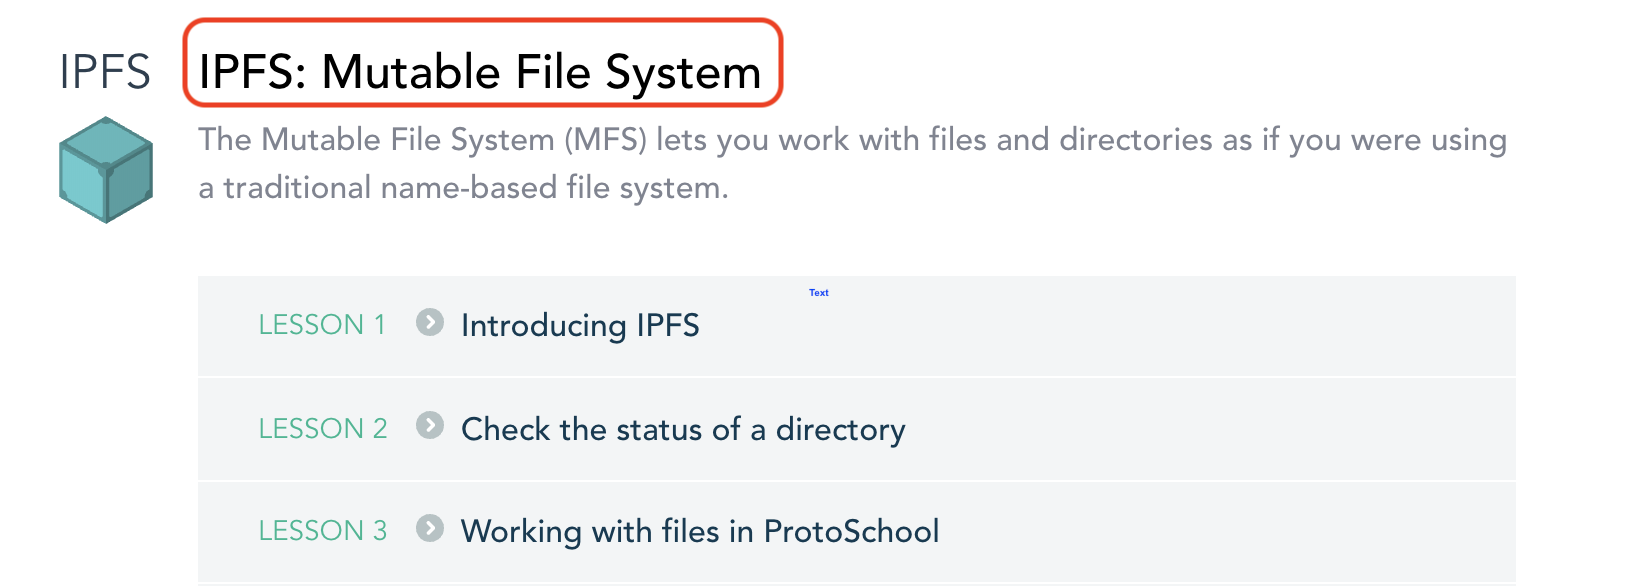
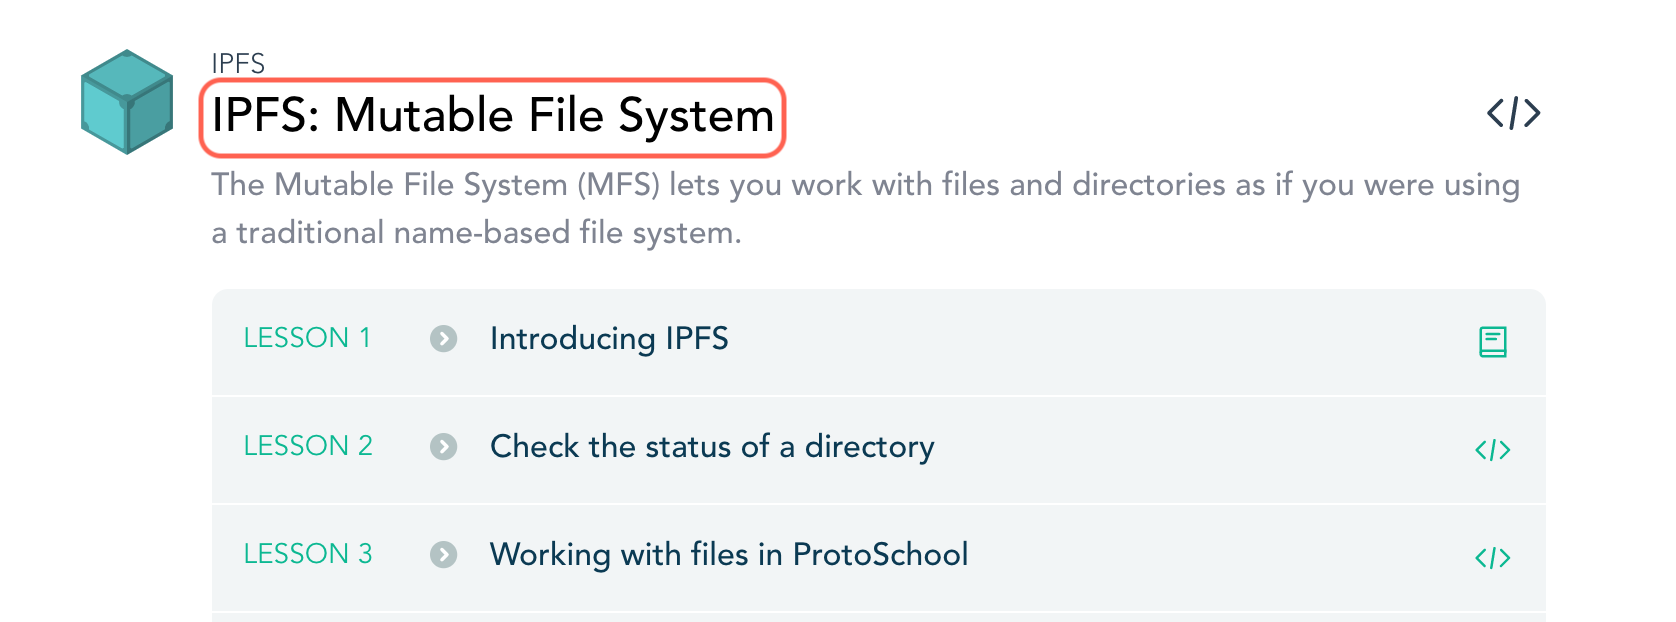
docs: update two screenshots
docs: some changes to the developing tutorials guide

diff --git a/DEVELOPING_TUTORIALS.md b/DEVELOPING_TUTORIALS.md
@@ -129,7 +129,7 @@ $ npm run serve
 
 6. Open a web browser to the following address to preview your work: http://localhost:3000/#/
 
-Vue will update your localhost preview automatically as you make changes. However, you won't be able to see any newly added lessons until you've updated the appropriate routes and import statements, as described below.
+Vue will update your localhost preview automatically as you make changes.
 
 
 ### Create files and metadata
@@ -154,17 +154,17 @@ Because you're likely to want to run the ProtoWizard multiple times, we recommen
 
 First, install the wizard:
 ```sh
-npm run install-protowizard
+$ npm run install-protowizard
 ```
 
 Once the wizard is installed, you'll be able to launch it repeatedly with the shortcut command:
 ```sh
-protowizard
+$ protowizard
 ```
 
 If you choose not to install it, you'll need to use this longer command to run the ProtoWizard:
 ```sh
-npm run scripts:wizard
+$ npm run scripts:wizard
 ```
 
 _Note: The ProtoWizard terminates automatically when you're done responding to its questions. You can exit the ProtoWizard prematurely using `Ctrl-C`._
@@ -182,7 +182,7 @@ If you're creating a new tutorial from scratch, you'll need to create a tutorial
 
 The ProtoWizard can ask you a few quick questions about your tutorial and use your responses to set up both a directory for your tutorial (eg `src/tutorials/0007-my-new-tutorial`) and the necessary metadata (title, description, etc.) to display the tutorial on our website.
 
-While the ProtoWizard only supports the intial creation of this data, you can edit the details later in `src/static/tutorials.json`. If you need to do this, please read [Managing Your Tutorial's Metadata](#managing-your-tutorials-metadata) for more information.
+While the ProtoWizard only supports the intial creation of this data, you can edit the details later in `src/static/tutorials.json`. If you need to do this, please read [Manage Your Tutorial's Metadata](#manage-your-tutorials-metadata) for more information.
 
 **Lessons**
 
@@ -196,7 +196,7 @@ This guide includes detailed instructions on how to work within those files to [
 
 Each ProtoSchool tutorial ends with a resources page where you can share suggestions of other learning materials relevant to your learners. The ProtoWizard will ask you a few quick questions about each resource in order to add the necessary details your tutorial's metadata. You can add all of your entries in the ProtoWizard at once or come back to it as you think of more resources.
 
-If you'd like to make edits to the resources you've created through the ProtoWizard, you can edit the details later in `src/static/tutorials.json`. [Learn how to create or edit resources manually.](#managing-your-tutorials-metadata)
+If you'd like to make edits to the resources you've created through the ProtoWizard, you can edit the details later in `src/static/tutorials.json`. [Learn how to create or edit resources manually.](#manage-your-tutorials-metadata)
 
 #### Manually
 
@@ -385,21 +385,21 @@ When submitting a PR that includes major tutorial updates, you should provide an
 
 _This step is completed automatically if you create your tutorial using the ProtoWizard._
 
-In `static/courses.json`, add the tutorial key that you used in `static/tutorials.json` to the `all` array so it will appear in the Tutorials page. For example, to continue with the same example shown above, you would change this:
+In `static/courses.json`, add the tutorial key that you used in `static/tutorials.json` to the `all` array so it will appear in the Tutorials page. For example, to continue with the same example shown above, you would make this change:
 
-```json
+```diff
 {
-  "all": ["0001", "0002", "0003"],
-  "featured": ["0001", "0002", "0003"]
-}
-```
-
-...to this:
-
-```json
-{
-  "all": ["0001", "0002", "0003", "0005"],
-  "featured": ["0001", "0002", "0003"]
+  "all": [
+    "0001",
+    "0002",
+    "0003",
++   "0005"
+  ],
+  "featured": [
+    "0001",
+    "0002",
+    "0003"
+  ]
 }
 ```
 
